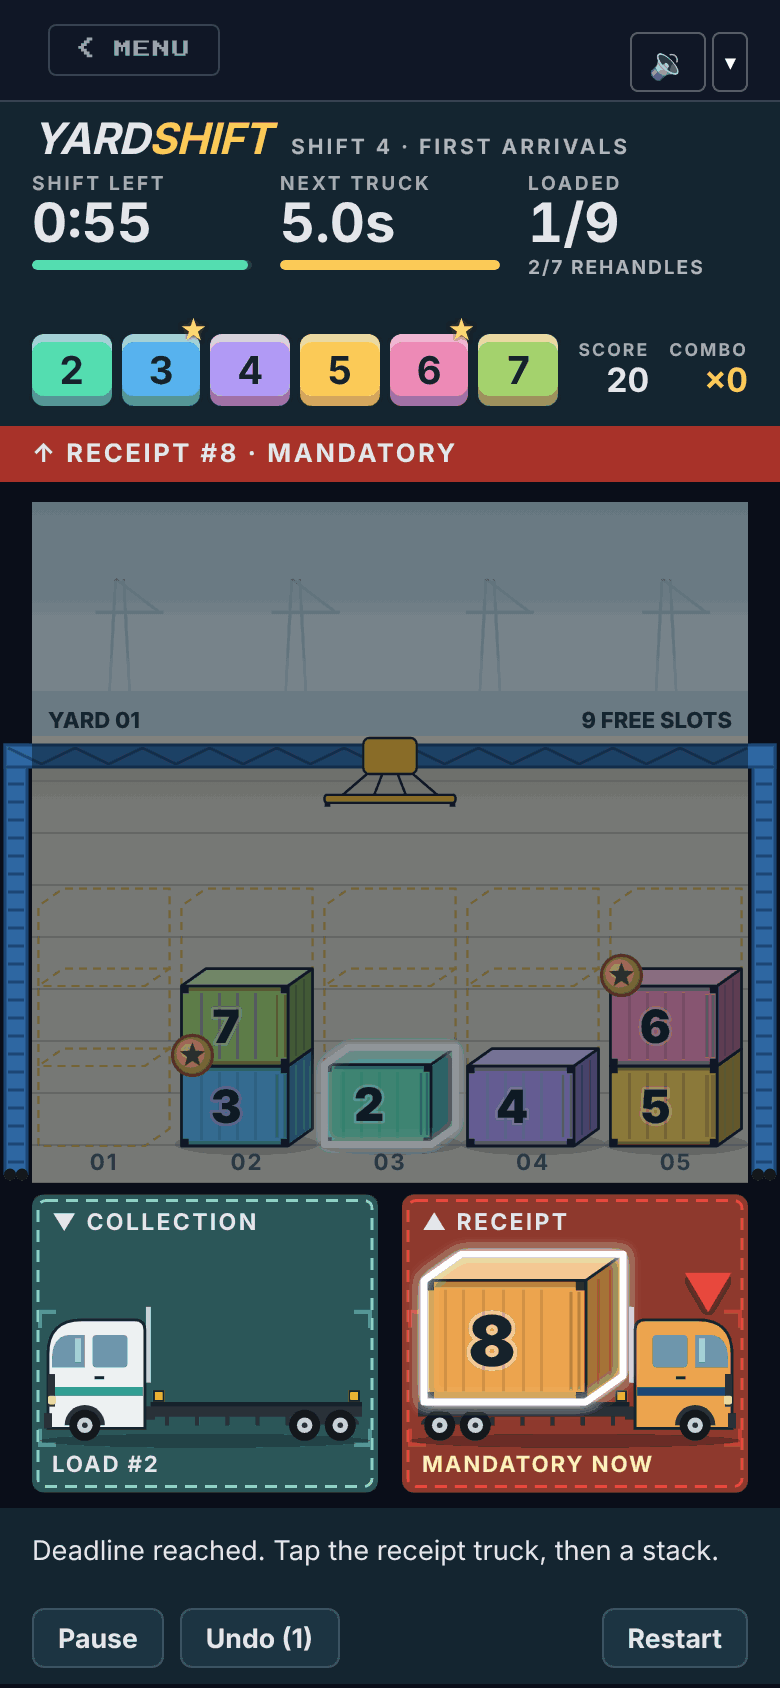
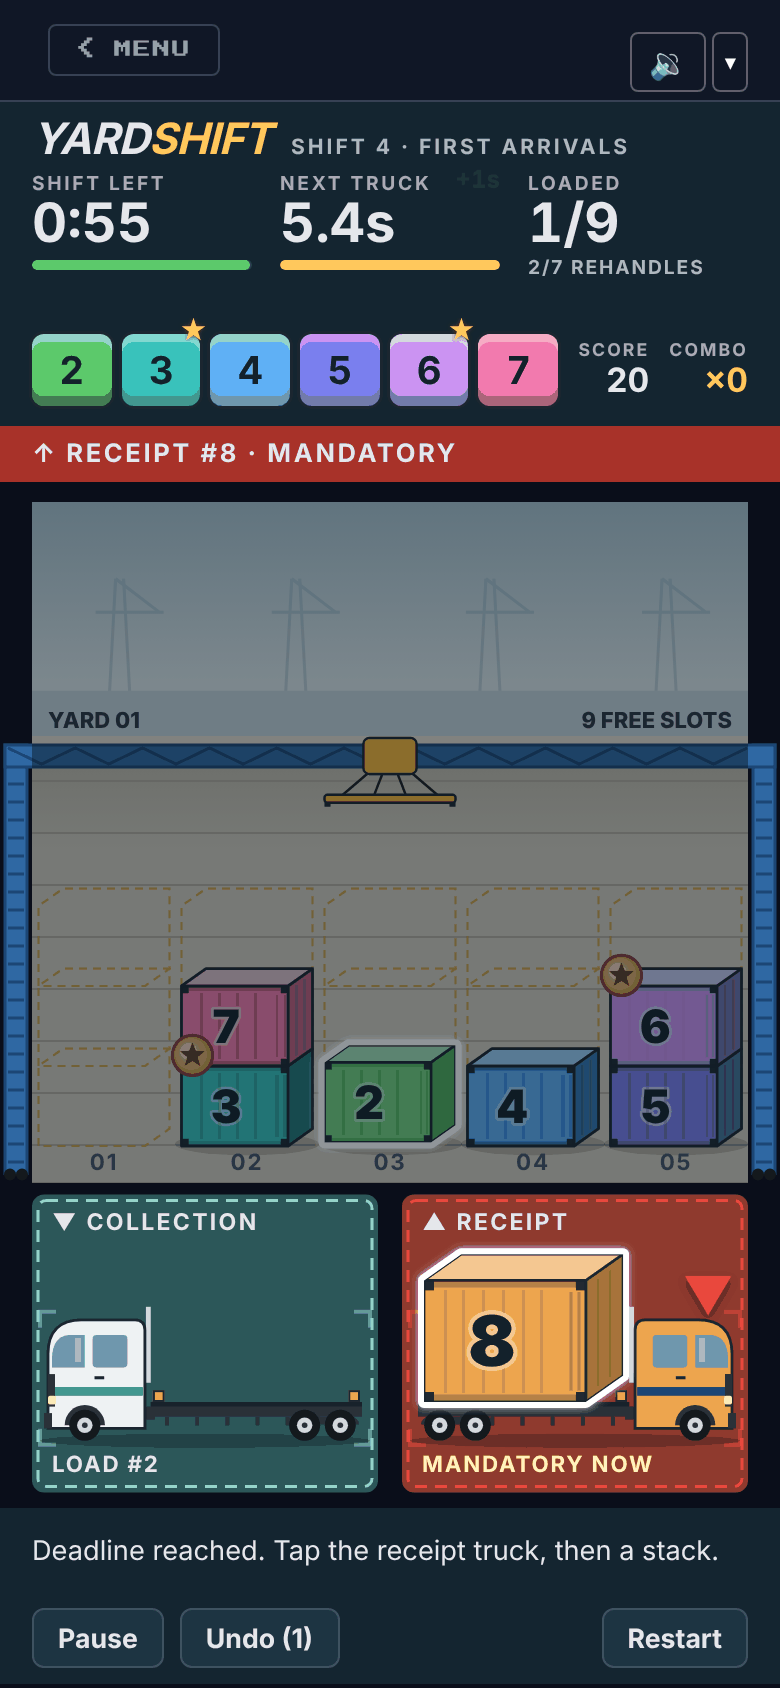
Yardshift owner round 4: hue-walk sequence colours, tutorial bonus on #4, shine clipped
- Sequence colours walk the hue wheel so the order reads at a glance: #1 green,
  #2 teal, #3 blue, #4 indigo, #5 purple, #6 pink, then grey. Yellow, gold,
  orange and red stay free for bonus, receipt and alerts.
- Level 1 (tutorial) gets one bonus, its last container #4, with a 2.0 s window
  (owner decision, deviating from V20), and coaches "Gold bonus! Load #4 fast
  for +250" while the window is open.
- The active bonus shine is clipped inside the front face, and the next box's
  white rim and glow are clipped to outside the box, so no pale band draws over
  the end face or past the box's right edge.
- Phone captures (2x) re-taken, including the tutorial with #4's bonus window
  open; cover re-cut; sim guide and glossary updated.

Claude-Session: https://claude.ai/code/session_0155BNjwPfcnFQSyZNLHGLyJ

diff --git a/src/sims/yardshift/composables/useYardCanvas.ts b/src/sims/yardshift/composables/useYardCanvas.ts
@@ -108,6 +108,21 @@ function outline(g: CanvasRenderingContext2D, b: Box): void {
   g.closePath()
 }
 
+/** Clips to everything outside the box's silhouette (front, top and end faces). */
+function clipOutside(g: CanvasRenderingContext2D, b: Box): void {
+  const pad = 64
+  g.beginPath()
+  g.rect(b.x - pad, b.y - b.dy - pad, b.w + b.dx + 2 * pad, b.h + b.dy + 2 * pad)
+  g.moveTo(b.x, b.y + b.h)
+  g.lineTo(b.x, b.y)
+  g.lineTo(b.x + b.dx, b.y - b.dy)
+  g.lineTo(b.x + b.w + b.dx, b.y - b.dy)
+  g.lineTo(b.x + b.w + b.dx, b.y + b.h - b.dy)
+  g.lineTo(b.x + b.w, b.y + b.h)
+  g.closePath()
+  g.clip('evenodd')
+}
+
 function star(g: CanvasRenderingContext2D, cx: number, cy: number, r: number, points = 5, inner = 0.45): void {
   g.beginPath()
   for (let i = 0; i < points * 2; i++) {
@@ -180,7 +195,7 @@ function containerSide(g: CanvasRenderingContext2D, b: Box, colour: string, gold
   g.fillStyle = gold ? C['gold-deep'] : tone(-0.3)
   g.fill()
   if (gold) {
-    // Metallic gold: a bright cream top edge, rich amber gold and a deep bronze foot, never the flat yellow slot.
+    // Metallic gold: a bright cream top edge, rich amber gold and a deep bronze foot, distinct from every sequence colour.
     const body = g.createLinearGradient(0, y, 0, y + h)
     body.addColorStop(0, C['gold-shine'])
     body.addColorStop(0.22, C['gold-body'])
@@ -271,9 +286,10 @@ function container(g: CanvasRenderingContext2D, b: Box, p: Paint, now: number): 
     // Shine sweep: a slanted light band crossing the box every 1.6 s.
     const s = shineAt(now, p.seed)
     if (s !== null) {
+      // Clipped inside the front face's outline (owner round 4): the band never reaches the end face or past the box.
       g.save()
       g.beginPath()
-      g.rect(x, y, w, h)
+      g.rect(x + 1, y + 1, w - 2, h - 2)
       g.clip()
       const sx = x - h + (w + 2 * h) * s
       const grad = g.createLinearGradient(sx - h * 0.6, 0, sx + h * 0.6, 0)
@@ -336,10 +352,12 @@ function container(g: CanvasRenderingContext2D, b: Box, p: Paint, now: number): 
   }
   if (p.glow && !p.red && !p.selected) {
     // The next container: a thick bright white outline with a soft outer glow that breathes (static when still).
+    // Clipped to outside the box (owner round 4), so the glow never washes a pale band over the dark end face.
     g.save()
+    clipOutside(g, b)
     g.shadowColor = `rgb(255 255 255 / ${Math.round(60 + 35 * glowPulse)}%)`
     g.shadowBlur = 6 + 6 * glowPulse
-    g.lineWidth = 3.5
+    g.lineWidth = 6
     g.strokeStyle = C.rim
     outline(g, b)
     g.stroke()

diff --git a/src/sims/yardshift/modules/presentation.ts b/src/sims/yardshift/modules/presentation.ts
@@ -3,7 +3,7 @@
  * draw; `input` turns a UI event into the next UI state and at most one engine action. Hit regions come from the
  * layout alone (never from animated positions), so a tap target never moves.
  */
-import { exposedNextStack, rejectionFor, waitingArrival } from './engine'
+import { BONUS_POINTS, exposedNextStack, rejectionFor, waitingArrival } from './engine'
 import { yardFit } from './yardGeometry'
 import type { ShiftAction, ShiftState } from '../types/engine'
 import type {
@@ -22,8 +22,11 @@ import type {
   Viewport,
 } from '../types/presentation'
 
-/** Colours of the next six collection positions: mint, blue, purple, yellow, pink, lime (V20). */
-export const SEQUENCE_COLOURS = ['#54ddb0', '#58b3ef', '#b19af5', '#f7ce53', '#ee8bb7', '#a5d36e'] as const
+/**
+ * Colours of the next six collection positions, a hue walk so the order reads at a glance (owner round 4): green,
+ * teal, blue, indigo, purple, pink. Yellow, amber/gold, orange and red stay free for bonus, receipt and alerts.
+ */
+export const SEQUENCE_COLOURS = ['#5cc96b', '#38c3bd', '#5fb0f5', '#7a7fee', '#cb93f2', '#f27aae'] as const
 /** Containers farther than six positions away. */
 export const GREY = '#84949c'
 /** Queue slot past the last container. */
@@ -197,6 +200,7 @@ function tutorialHint(state: ShiftState, ui: UiState): string | null {
   if (!state.level.tutorialCoaching) return null
   if (ui.selection !== null) return null
   if (state.collected === 0) return `Tap container #${state.next} to load the first truck.`
+  if (state.bonusMs > 0) return `Gold bonus! Load #${state.next} fast for +${BONUS_POINTS}`
   if (exposedNextStack(state) >= 0) return `Tap #${state.next} to load the next truck.`
   const holder = state.stacks.find((s) => s.includes(state.next))
   const blocker = holder?.[holder.length - 1]

diff --git a/src/sims/yardshift/modules/levels.ts b/src/sims/yardshift/modules/levels.ts
@@ -17,6 +17,8 @@ interface V20Row {
   truckSeconds: readonly [number, number, number]
   /** Bonus cadence: every multiple of this id is a bonus container (0 for none). */
   bonusEvery: number
+  /** Explicit bonus ids, in place of the cadence (the tutorial's one bonus, owner round 4). */
+  bonusIds?: number[]
   bonusWindowSeconds: number
   overtimeMultiplier: number
   tutorialCoaching?: boolean
@@ -52,7 +54,7 @@ function level(n: number, row: V20Row): LevelDef {
     truckSeconds: row.truckSeconds,
     arrivals: row.arrivals ?? [],
     heavy: row.heavy ?? [],
-    bonusIds: bonusIds(row.bonusEvery, row.count),
+    bonusIds: row.bonusIds ?? bonusIds(row.bonusEvery, row.count),
     bonusWindowSeconds: row.bonusWindowSeconds,
     overtimeMultiplier: row.overtimeMultiplier,
     tutorialCoaching: row.tutorialCoaching ?? false,
@@ -64,7 +66,9 @@ function level(n: number, row: V20Row): LevelDef {
 // prettier-ignore
 const ROWS: V20Row[] = [
   { name: 'First shift', stacks: [[1], [2, 4], [3], []], count: 4, capacity: 2, maxRehandles: 5, shiftSeconds: 150,
-    truckSeconds: [30, 20, 15], bonusEvery: 0, bonusWindowSeconds: 0, overtimeMultiplier: 2, tutorialCoaching: true,
+    // Owner round 4, deviating from V20 (no tutorial bonus): one bonus, the last container, with a generous window.
+    truckSeconds: [30, 20, 15], bonusEvery: 0, bonusIds: [4], bonusWindowSeconds: 2.0, overtimeMultiplier: 2,
+    tutorialCoaching: true,
     tip: 'Tap #1 to load it. Move #4 aside to uncover #2.' },
   { name: 'Think ahead', stacks: [[2, 5], [1, 6], [3, 4], []], count: 6, capacity: 3, maxRehandles: 7, shiftSeconds: 40,
     truckSeconds: truck(12), bonusEvery: 3, bonusWindowSeconds: 1.6, overtimeMultiplier: 3,

diff --git a/src/sims/yardshift/modules/levels.test.ts b/src/sims/yardshift/modules/levels.test.ts
@@ -46,11 +46,16 @@ describe('Yardshift levels', () => {
     expect(LEVELS[0]!.truckSeconds).toEqual([30, 20, 15])
     expect(LEVELS[1]!.truckSeconds).toEqual([12, 6, 12 * 0.28])
     expect(LEVELS.map((l) => l.overtimeMultiplier)).toEqual([2, ...Array(12).fill(3)])
-    expect(LEVELS.map((l) => l.bonusWindowSeconds)).toEqual([0, 1.6, 1.3, 1.3, ...Array(9).fill(1.1)])
-    expect(LEVELS[0]!.bonusIds).toEqual([])
+    expect(LEVELS.map((l) => l.bonusWindowSeconds).slice(1)).toEqual([1.6, 1.3, 1.3, ...Array(9).fill(1.1)])
     expect(LEVELS[9]!.bonusIds).toEqual([3, 6, 9, 12, 15])
     expect(LEVELS.filter((l) => l.heavyHints).map((l) => l.number)).toEqual([11, 12])
     expect(LEVELS.filter((l) => l.tutorialCoaching).map((l) => l.number)).toEqual([1])
+  })
+
+  it('the tutorial has one bonus, its last container #4, with a generous 2.0 s window (owner round 4)', () => {
+    // Owner decision, deviating from V20 (the tutorial had no bonus): one bonus, last in the sequence.
+    expect(LEVELS[0]!.bonusIds).toEqual([4])
+    expect(LEVELS[0]!.bonusWindowSeconds).toBe(2)
   })
 
   it('chooses no level value from the level number (each row states it)', () => {

diff --git a/src/sims/yardshift/modules/engine.test.ts b/src/sims/yardshift/modules/engine.test.ts
@@ -103,12 +103,14 @@ describe('Yardshift engine', () => {
     for (const a of plan) expect(shift.dispatch(a).ok).toBe(true)
     expect(shift.state.status).toBe('playing')
     const last = shift.dispatch({ type: 'collect' })
-    expect(last.ok && last.events.map((e) => e.type)).toEqual(['collected', 'completed'])
+    // #4 is the tutorial's one bonus (owner round 4), collected inside its window.
+    expect(last.ok && last.events.map((e) => e.type)).toEqual(['collected', 'bonus-awarded', 'completed'])
     expect(shift.state).toMatchObject({ status: 'complete', collected: 4, next: 5, rehandles: 1 })
     expect(shift.state.stacks.every((s) => s.length === 0)).toBe(true)
     expect(seen.filter((t) => t === 'completed')).toHaveLength(1)
     expect(shift.dispatch({ type: 'collect' }).ok).toBe(false)
-    expect(shift.events).toHaveLength(7) // four collections, one rehandle and its time credit, completed
+    // Four collections, one rehandle and its time credit, the #4 bonus window and award, completed.
+    expect(shift.events).toHaveLength(9)
   })
 
   it('tick is a no-op once the shift is over', () => {

diff --git a/src/sims/yardshift/modules/inputCoaching.test.ts b/src/sims/yardshift/modules/inputCoaching.test.ts
@@ -189,6 +189,21 @@ describe('Yardshift coaching hints', () => {
     expect(hint()).toBe('Tap #2 to load the next truck.')
     shift.dispatch({ type: 'collect', from: 1 })
     expect(hint()).toBe('Tap #3 to load the next truck.')
+    shift.dispatch({ type: 'collect', from: 2 })
+    // #4 is the tutorial's one bonus: its window opens as it becomes next (owner round 4).
+    expect(shift.state.bonusMs).toBeGreaterThan(0)
+    expect(hint()).toBe('Gold bonus! Load #4 fast for +250')
+  })
+
+  it('once the tutorial bonus window closes, the plain coaching returns', () => {
+    const shift = createShift(TUTORIAL)
+    shift.dispatch({ type: 'collect', from: 0 })
+    shift.dispatch({ type: 'rehandle', from: 1, to: 3 })
+    shift.dispatch({ type: 'collect', from: 1 })
+    shift.dispatch({ type: 'collect', from: 2 })
+    for (let t = 0; t < 2100; t += 100) shift.tick(100)
+    expect(shift.state.bonusMs).toBe(0)
+    expect(present(shift.state, NONE, PHONE).hint).toBe('Tap #4 to load the next truck.')
   })
 
   it('other levels get the plain hint', () => {

diff --git a/src/sims/yardshift/modules/presentationScore.test.ts b/src/sims/yardshift/modules/presentationScore.test.ts
@@ -32,8 +32,8 @@ const view = (shift: Shift, ui: UiState = NONE) => present(shift.state, ui, PHON
 const byId = (shift: Shift, ui: UiState = NONE) => new Map(view(shift, ui).containers.map((c) => [c.id, c]))
 
 describe('Yardshift colours and queue', () => {
-  it('the palette is mint, blue, purple, yellow, pink, lime, then grey', () => {
-    expect(SEQUENCE_COLOURS).toEqual(['#54ddb0', '#58b3ef', '#b19af5', '#f7ce53', '#ee8bb7', '#a5d36e'])
+  it('the palette is a hue walk: green, teal, blue, indigo, purple, pink, then grey (owner round 4)', () => {
+    expect(SEQUENCE_COLOURS).toEqual(['#5cc96b', '#38c3bd', '#5fb0f5', '#7a7fee', '#cb93f2', '#f27aae'])
     expect(GREY).toBe('#84949c')
   })
 

diff --git a/src/sims/yardshift/styles/palette.css b/src/sims/yardshift/styles/palette.css
@@ -7,13 +7,13 @@
  * the tests keep them equal.
  */
 .yardshift {
-  /* Sequence colours: the next six containers in order. */
-  --ys-seq-0: #54ddb0;
-  --ys-seq-1: #58b3ef;
-  --ys-seq-2: #b19af5;
-  --ys-seq-3: #f7ce53;
-  --ys-seq-4: #ee8bb7;
-  --ys-seq-5: #a5d36e;
+  /* Sequence colours: the next six containers in order, a hue walk (green, teal, blue, indigo, purple, pink). */
+  --ys-seq-0: #5cc96b;
+  --ys-seq-1: #38c3bd;
+  --ys-seq-2: #5fb0f5;
+  --ys-seq-3: #7a7fee;
+  --ys-seq-4: #cb93f2;
+  --ys-seq-5: #f27aae;
   /* Containers farther than six positions away. */
   --ys-grey: #84949c;
 

diff --git a/src/sims/yardshift/yardshift-AGENTS.md b/src/sims/yardshift/yardshift-AGENTS.md
@@ -93,7 +93,7 @@ and crane frames, and a backing store scaled by `devicePixelRatio` (capped at 3)
   face, a darker end face, a few soft ribs, two subtle door bars, thin rails, corner castings, a big bold number with
   a light halo; the next box is slightly brighter. A bonus box keeps its sequence colour with a static star badge on
   its top-left corner, inside its column, drawn in a second pass so it never covers a number. Only the active bonus
-  (`bonusActive`: next, window open) is amber metallic gold (`gold-body`, kept apart from the yellow sequence colour)
+  (`bonusActive`: next, window open) is amber metallic gold (`gold-body`; the sequence colours hold no yellow since owner round 4)
   with its sequence colour along the bottom rail, a gold halo, a shine sweep every 1.6 s, up to three sparkles at the
   box ends, a bouncing badge and the countdown ring; "H" tile for `heavy`), the NEXT chevron (white, outlined,
   striped in the next box's colour; hidden while the crane works that stack), ghost drop boxes on `destinations`, the blue gantry and the yellow trolley with
@@ -119,8 +119,11 @@ and crane frames, and a backing store scaled by `devicePixelRatio` (capped at 3)
   `QueueItem.active`, and `ViewModel.nextMarker` (`{ stack, buried }`, null when the shift is over, the next box is
   not in the yard, or a receipt is mandatory). Hit regions stay layout-only (tested calm, urgent, reduced and selected).
 - Screenshots: `docs/prototypes/2d/` (art pass 3, phone 390x844 at 2x: level 3 after one rehandle, the owner's
-  `owner-2d-v3` state; level 2 bonus window open on #3; level 4 mandatory receipt; tutorial start; desktop 1280x800
-  level 4).
+  `owner-2d-v3` state; level 2 bonus window open on #3; level 4 mandatory receipt; tutorial start; tutorial with #4's bonus window open
+  and its coaching line; desktop 1280x800 level 4). Re-captured in owner round 4 for the hue-walk colours.
+- Active bonus shine (owner round 4): the sweep is clipped inside the front face's outline, and the next box's white
+  rim and glow are clipped to outside the box silhouette (`clipOutside`), so neither draws a pale band over the dark
+  end face or past the box's right edge.
 
 ## Playtest fixes (spec #374 phase 1)
 
@@ -250,7 +253,7 @@ keeps the behaviours (lift and rim, ghosts, slot outlines, stack labels, arrow b
   `URGENT_RISK` 0.5). `UiState.reducedMotion` comes from `setReducedMotion`. The scene offsets the mesh only
   (amplitude 0.65 + 3.35 x risk px) or adds a static red glow; hit regions never move.
 - Coaching (hint): `tutorialCoaching` levels coach collect #1, move the blocker to an empty stack, then collect in
-  order; `heavyHints` levels (11, 12) say "Heavy #n · Choose a highlighted stack: heavy on heavy or empty." or
+  order, and while a bonus window is open (level 1's #4) say "Gold bonus! Load #4 fast for +250"; `heavyHints` levels (11, 12) say "Heavy #n · Choose a highlighted stack: heavy on heavy or empty." or
   "... No valid stack. Make space first." while heavy cargo is selected; 13 has none. Rejection messages (the store's
   `message`, shown over the hint) stay on every level.
 
@@ -273,7 +276,7 @@ keeps the behaviours (lift and rim, ghosts, slot outlines, stack labels, arrow b
   in the receipt bay; plus singular and plural copy ("1 MOVE LEFT", "1 rehandle", "1 star bonus").
 - Scene: the gantry beam runs along the slanted row of stacks (first to last column, legs just outside) and moves
   across it with the trolley; the trolley rest point resets when the surface size or stack count changes.
-- Cover: `assets/cover.png` (art pass 3) is a 640x360 crop of the phone level 3 capture (390x844 at 2x,
+- Cover: `assets/cover.png` (art pass 3, re-cut in owner round 4 for the hue walk) is a 640x360 crop of the phone level 3 capture (390x844 at 2x,
   `loadLevel(3)` then `{ type: 'rehandle', from: 2, to: 4 }`): the 16:9 band from the beam down to the stack
   numbers, 8-bit palette, about 20 KB.
 
@@ -377,10 +380,20 @@ keeps the behaviours (lift and rim, ghosts, slot outlines, stack labels, arrow b
 `modules/levels.ts` holds all 13 V20 levels exactly (`levels.test.ts` checks them against the V20 array). V20's code
 rules keyed on the level index are explicit fields on each row, never chosen from the level number (a test scans the
 source): `truckSeconds` (tutorial `[30, 20, 15]`, else `truck(first)`: first, x0.5, x0.28), `bonusEvery` (3 from
-level 2, giving `bonusIds`), `bonusWindowSeconds`, `overtimeMultiplier` (2 on the tutorial, 3 elsewhere),
+level 2, giving `bonusIds`), `bonusIds` (an explicit list in place of the cadence), `bonusWindowSeconds`, `overtimeMultiplier` (2 on the tutorial, 3 elsewhere),
 `tutorialCoaching`, `heavyHints` (11 and 12) and `tip`. There is no hand-entered minimum: the star target comes from
 the solver fixture. Start a level in dev with `window.__ys.loadLevel(n)` (no intro) or the level picker. Arrival levels
 (4, 6, 8, 9, 10, 13) start with a truck waiting.
+
+| Level | Bonus ids | Bonus window |
+| --- | --- | --- |
+| 1 (tutorial) | #4 only (`bonusIds: [4]`, the last container) | 2.0 s |
+| 2 | every third (`bonusEvery: 3`) | 1.6 s |
+| 3, 4 | every third | 1.3 s |
+| 5 to 13 | every third | 1.1 s |
+
+Level 1's bonus is an owner decision (round 4) deviating from V20, where the tutorial had none; `levels.test.ts`
+records it. The bonus does not change rehandles, so the solver fixtures are unchanged.
 
 ## Solver and stars
 
@@ -397,7 +410,9 @@ the solver fixture. Start a level in dev with `window.__ys.loadLevel(n)` (no int
 ## Colours
 
 `styles/palette.css` (loaded by `Yardshift.vue`, scoped to `.yardshift`) holds the sim's own palette as `--ys-*`
-properties: the six sequence colours, grey, gold, arrival orange, red and the panel shades. Background, text and muted
+properties: the six sequence colours (a hue walk so the order reads at a glance, owner round 4: #1 green `#5cc96b`,
+#2 teal `#38c3bd`, #3 blue `#5fb0f5`, #4 indigo `#7a7fee`, #5 purple `#cb93f2`, #6 pink `#f27aae`; yellow, amber
+gold, orange and red stay free for bonus, receipt and alerts; each holds the dark number ink at 4.7:1 or more), grey, gold, arrival orange, red and the panel shades. Background, text and muted
 text use the shared tokens of `src/assets/main.css`. Components use those or `--ys-*`, never hex
 (`scripts/check-no-hex-colours.mjs` in verify); `modules/palette.test.ts` keeps `--ys-seq-*` and `--ys-grey` equal to `SEQUENCE_COLOURS` and `GREY`. The
 canvas yard keeps its colours in `modules/yardPalette.ts`, each mirrored as `--ys-yard-*` in the palette and kept

diff --git a/GLOSSARY.md b/GLOSSARY.md
@@ -378,6 +378,6 @@ Domain terms used in code, tests, docs and conversations. Most are from **Termin
 - **Solver fixture:** `fixtures/level-NN.json`, written by `pnpm run ys:solve`: a level's proven minimum rehandles (the three-star target) and one optimal action list.
 - **Combo (Yardshift):** consecutive collections; a rehandle or receipt resets it to 0. Collection score is 100 + 50 x (min(combo, 5) - 1).
 - **Bonus container / bonus window:** a level's `bonusIds` container carries a gold star medallion; when it becomes the next required container a window of `bonusWindowSeconds` opens (`state.bonusMs`). Collecting it inside the window gives +250 points and +5 s shift; a miss makes it ordinary cargo. Stars never depend on it. On top of its stack it **glints** (rocks and flashes gold; still under reduced motion).
-- **Colour slot:** the position 0..5 of a container after the next required one, drawn in the six sequence colours (mint, blue, purple, yellow, pink, lime); farther containers are grey.
+- **Colour slot:** the position 0..5 of a container after the next required one, drawn in the six sequence colours (a hue walk: green, teal, blue, indigo, purple, pink); farther containers are grey.
 - **Urgency risk (Yardshift):** 0..1 shake level of a container: the shift-end risk (last 9 s) for all, plus the focus risk (0.08 rising to 1 below 35% of the next-truck clock) for the current container. Under reduced motion it becomes the static `urgent` flag. Never moves a hit region.
 - **Heavy hint (Yardshift):** the live coaching line while heavy cargo is selected, on levels with `heavyHints` (11 and 12 only); rejection messages stay on every level.
